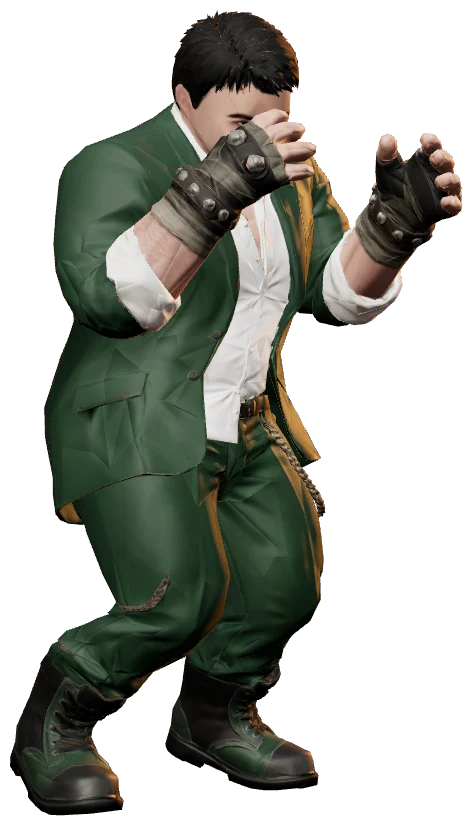
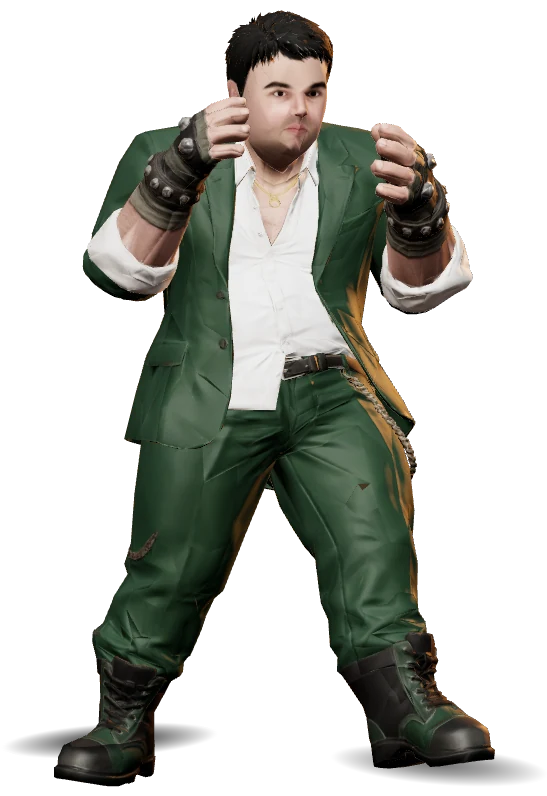
Guardia con i piedi piatti a terra, figure della scelta rivolte alla telecamera, arena Via Gemmellaro
Claude-Session: https://claude.ai/code/session_01Ca6fdwAAkC6S1YGdMpQrpP

diff --git a/picchiaduro-sito/sw.js b/picchiaduro-sito/sw.js
@@ -1,7 +1,7 @@
 // Service worker (generato da build3d.py): rende il gioco giocabile anche senza internet.
 // All'installazione salva i file principali; il resto (modelli dei lottatori e oggetti delle mosse finali) lo salva in sottofondo quando la pagina lo chiede.
 // Ogni nuova versione del gioco ha un'impronta diversa: la cache vecchia viene cancellata. Solo la partita online ha bisogno di internet.
-const VER='cafuddra-e594499d47',CORE=["./", "index.html", "manifest.webmanifest", "arene/agip.jpg", "arene/monumento.jpg", "arene/palacannizzaro.jpg", "arene/piazza.jpg", "arene/retro.jpg", "arene/rotonda.jpg", "arene/stesicoro.jpg", "font/knewave-LICENSE.txt", "font/knewave.woff2", "font/metal-mania.woff2", "font/titoli.json", "img/accoppalo.webp", "img/cafuddra.webp", "img/icona192.png", "img/icona512.png", "js/accoppalo.js", "js/animazione.js", "js/audio.js", "js/gioco.js", "js/lottatori.js", "js/mani.js", "js/menu.js", "js/offline.js", "js/peerjs.min.js", "js/regia.js", "js/selezione.js", "js/three-gltf.js", "js/titoli.js", "js/tocco.js", "lottatori/lottatori.json", "lottatori/alchimista/figura.webp", "lottatori/alchimista/ritratto.jpg", "lottatori/casual/figura.webp", "lottatori/casual/ritratto.jpg", "lottatori/chef/figura.webp", "lottatori/chef/ritratto.jpg", "lottatori/damiano/figura.webp", "lottatori/damiano/ritratto.jpg", "lottatori/disco/figura.webp", "lottatori/disco/ritratto.jpg", "lottatori/ember/figura.webp", "lottatori/ember/ritratto.jpg", "lottatori/giacca-meshy/figura.webp", "lottatori/giacca-meshy/ritratto.jpg", "lottatori/guardia/figura.webp", "lottatori/guardia/ritratto.jpg", "lottatori/lillo/figura.webp", "lottatori/lillo/ritratto.jpg", "lottatori/mario/figura.webp", "lottatori/mario/ritratto.jpg", "lottatori/massimo/figura.webp", "lottatori/massimo/ritratto.jpg", "lottatori/mastro/figura.webp", "lottatori/mastro/ritratto.jpg", "lottatori/mattia/figura.webp", "lottatori/mattia/ritratto.jpg", "lottatori/mattityahu/figura.webp", "lottatori/mattityahu/ritratto.jpg", "lottatori/medico/figura.webp", "lottatori/medico/ritratto.jpg", "lottatori/peppone/figura.webp", "lottatori/peppone/ritratto.jpg", "lottatori/perna/figura.webp", "lottatori/perna/ritratto.jpg", "lottatori/simba/figura.webp", "lottatori/simba/ritratto.jpg", "lottatori/simone/figura.webp", "lottatori/simone/ritratto.jpg", "lottatori/street/figura.webp", "lottatori/street/ritratto.jpg", "lottatori/tano/figura.webp", "lottatori/tano/ritratto.jpg", "mocap/clip.json", "suoni/ahi1.mp3", "suoni/ahi2.mp3", "suoni/ahi3.mp3", "suoni/ahi4.mp3", "suoni/ahi5.mp3", "suoni/aria1.mp3", "suoni/aria2.mp3", "suoni/aria3.mp3", "suoni/aria4.mp3", "suoni/ariona1.mp3", "suoni/ariona2.mp3", "suoni/boato.mp3", "suoni/botto.mp3", "suoni/calcio1.mp3", "suoni/calcio2.mp3", "suoni/calcio3.mp3", "suoni/campana.mp3", "suoni/cannone.mp3", "suoni/colpone.mp3", "suoni/colpone2.mp3", "suoni/coro.mp3", "suoni/crepitio.mp3", "suoni/esplo1.mp3", "suoni/esplo2.mp3", "suoni/fiammata.mp3", "suoni/forte1.mp3", "suoni/forte2.mp3", "suoni/forte3.mp3", "suoni/fuoco.mp3", "suoni/incudine.mp3", "suoni/lama.mp3", "suoni/lama2.mp3", "suoni/lamiera.mp3", "suoni/lattina.mp3", "suoni/max1.mp3", "suoni/metallo1.mp3", "suoni/metallo2.mp3", "suoni/morte1.mp3", "suoni/morte2.mp3", "suoni/ossa1.mp3", "suoni/ossa2.mp3", "suoni/parata1.mp3", "suoni/parata2.mp3", "suoni/passo1.mp3", "suoni/passo2.mp3", "suoni/portiera.mp3", "suoni/pugno1.mp3", "suoni/pugno2.mp3", "suoni/pugno3.mp3", "suoni/pugno4.mp3", "suoni/raschio.mp3", "suoni/risata.mp3", "suoni/rullante.mp3", "suoni/rutto.mp3", "suoni/sangue1.mp3", "suoni/sangue2.mp3", "suoni/scarica1.mp3", "suoni/scarica2.mp3", "suoni/schianto.mp3", "suoni/sforzo1.mp3", "suoni/sforzo2.mp3", "suoni/sorso.mp3", "suoni/sparo1.mp3", "suoni/sparo2.mp3", "suoni/stoffa1.mp3", "suoni/stoffa2.mp3", "suoni/telefono.mp3", "suoni/tonfo.mp3", "suoni/tuono.mp3", "suoni/ui_apri.mp3", "suoni/ui_muovi.mp3", "suoni/ui_no.mp3", "suoni/ui_ok.mp3", "suoni/urlo1.mp3", "suoni/urlo2.mp3", "suoni/urlolungo.mp3", "suoni/vetro1.mp3", "suoni/vetro2.mp3", "suoni/zap.mp3"],EXTRA=["lottatori/alchimista/modello.glb", "lottatori/casual/modello.glb", "lottatori/chef/modello.glb", "lottatori/damiano/modello.glb", "lottatori/disco/modello.glb", "lottatori/ember/modello.glb", "lottatori/giacca-meshy/modello.glb", "lottatori/guardia/modello.glb", "lottatori/lillo/modello.glb", "lottatori/mario/modello.glb", "lottatori/massimo/modello.glb", "lottatori/mastro/modello.glb", "lottatori/mattia/modello.glb", "lottatori/mattityahu/modello.glb", "lottatori/medico/modello.glb", "lottatori/peppone/modello.glb", "lottatori/perna/modello.glb", "lottatori/simba/modello.glb", "lottatori/simone/modello.glb", "lottatori/street/modello.glb", "lottatori/tano/modello.glb", "oggetti/birra.js", "oggetti/bottiglia.js", "oggetti/camper.js", "oggetti/cuore.js", "oggetti/intestino.js", "oggetti/microfono.js", "oggetti/muscoli.js", "oggetti/palla.js", "oggetti/scheletro.js", "oggetti/siringa.js", "oggetti/spina.js", "oggetti/statua.js", "oggetti/telefono.js", "oggetti/volante.js", "oggetti/waifu.js"];
+const VER='cafuddra-fe4b4b78f6',CORE=["./", "index.html", "manifest.webmanifest", "arene/agip.jpg", "arene/gemmellaro.jpg", "arene/monumento.jpg", "arene/palacannizzaro.jpg", "arene/piazza.jpg", "arene/retro.jpg", "arene/rotonda.jpg", "arene/stesicoro.jpg", "font/knewave-LICENSE.txt", "font/knewave.woff2", "font/metal-mania.woff2", "font/titoli.json", "img/accoppalo.webp", "img/cafuddra.webp", "img/icona192.png", "img/icona512.png", "js/accoppalo.js", "js/animazione.js", "js/audio.js", "js/gioco.js", "js/lottatori.js", "js/mani.js", "js/menu.js", "js/offline.js", "js/peerjs.min.js", "js/regia.js", "js/selezione.js", "js/three-gltf.js", "js/titoli.js", "js/tocco.js", "lottatori/lottatori.json", "lottatori/alchimista/figura.webp", "lottatori/alchimista/ritratto.jpg", "lottatori/casual/figura.webp", "lottatori/casual/ritratto.jpg", "lottatori/chef/figura.webp", "lottatori/chef/ritratto.jpg", "lottatori/damiano/figura.webp", "lottatori/damiano/ritratto.jpg", "lottatori/disco/figura.webp", "lottatori/disco/ritratto.jpg", "lottatori/ember/figura.webp", "lottatori/ember/ritratto.jpg", "lottatori/giacca-meshy/figura.webp", "lottatori/giacca-meshy/ritratto.jpg", "lottatori/guardia/figura.webp", "lottatori/guardia/ritratto.jpg", "lottatori/lillo/figura.webp", "lottatori/lillo/ritratto.jpg", "lottatori/mario/figura.webp", "lottatori/mario/ritratto.jpg", "lottatori/massimo/figura.webp", "lottatori/massimo/ritratto.jpg", "lottatori/mastro/figura.webp", "lottatori/mastro/ritratto.jpg", "lottatori/mattia/figura.webp", "lottatori/mattia/ritratto.jpg", "lottatori/mattityahu/figura.webp", "lottatori/mattityahu/ritratto.jpg", "lottatori/medico/figura.webp", "lottatori/medico/ritratto.jpg", "lottatori/peppone/figura.webp", "lottatori/peppone/ritratto.jpg", "lottatori/perna/figura.webp", "lottatori/perna/ritratto.jpg", "lottatori/simba/figura.webp", "lottatori/simba/ritratto.jpg", "lottatori/simone/figura.webp", "lottatori/simone/ritratto.jpg", "lottatori/street/figura.webp", "lottatori/street/ritratto.jpg", "lottatori/tano/figura.webp", "lottatori/tano/ritratto.jpg", "mocap/clip.json", "suoni/ahi1.mp3", "suoni/ahi2.mp3", "suoni/ahi3.mp3", "suoni/ahi4.mp3", "suoni/ahi5.mp3", "suoni/aria1.mp3", "suoni/aria2.mp3", "suoni/aria3.mp3", "suoni/aria4.mp3", "suoni/ariona1.mp3", "suoni/ariona2.mp3", "suoni/boato.mp3", "suoni/botto.mp3", "suoni/calcio1.mp3", "suoni/calcio2.mp3", "suoni/calcio3.mp3", "suoni/campana.mp3", "suoni/cannone.mp3", "suoni/colpone.mp3", "suoni/colpone2.mp3", "suoni/coro.mp3", "suoni/crepitio.mp3", "suoni/esplo1.mp3", "suoni/esplo2.mp3", "suoni/fiammata.mp3", "suoni/forte1.mp3", "suoni/forte2.mp3", "suoni/forte3.mp3", "suoni/fuoco.mp3", "suoni/incudine.mp3", "suoni/lama.mp3", "suoni/lama2.mp3", "suoni/lamiera.mp3", "suoni/lattina.mp3", "suoni/max1.mp3", "suoni/metallo1.mp3", "suoni/metallo2.mp3", "suoni/morte1.mp3", "suoni/morte2.mp3", "suoni/ossa1.mp3", "suoni/ossa2.mp3", "suoni/parata1.mp3", "suoni/parata2.mp3", "suoni/passo1.mp3", "suoni/passo2.mp3", "suoni/portiera.mp3", "suoni/pugno1.mp3", "suoni/pugno2.mp3", "suoni/pugno3.mp3", "suoni/pugno4.mp3", "suoni/raschio.mp3", "suoni/risata.mp3", "suoni/rullante.mp3", "suoni/rutto.mp3", "suoni/sangue1.mp3", "suoni/sangue2.mp3", "suoni/scarica1.mp3", "suoni/scarica2.mp3", "suoni/schianto.mp3", "suoni/sforzo1.mp3", "suoni/sforzo2.mp3", "suoni/sorso.mp3", "suoni/sparo1.mp3", "suoni/sparo2.mp3", "suoni/stoffa1.mp3", "suoni/stoffa2.mp3", "suoni/telefono.mp3", "suoni/tonfo.mp3", "suoni/tuono.mp3", "suoni/ui_apri.mp3", "suoni/ui_muovi.mp3", "suoni/ui_no.mp3", "suoni/ui_ok.mp3", "suoni/urlo1.mp3", "suoni/urlo2.mp3", "suoni/urlolungo.mp3", "suoni/vetro1.mp3", "suoni/vetro2.mp3", "suoni/zap.mp3"],EXTRA=["lottatori/alchimista/modello.glb", "lottatori/casual/modello.glb", "lottatori/chef/modello.glb", "lottatori/damiano/modello.glb", "lottatori/disco/modello.glb", "lottatori/ember/modello.glb", "lottatori/giacca-meshy/modello.glb", "lottatori/guardia/modello.glb", "lottatori/lillo/modello.glb", "lottatori/mario/modello.glb", "lottatori/massimo/modello.glb", "lottatori/mastro/modello.glb", "lottatori/mattia/modello.glb", "lottatori/mattityahu/modello.glb", "lottatori/medico/modello.glb", "lottatori/peppone/modello.glb", "lottatori/perna/modello.glb", "lottatori/simba/modello.glb", "lottatori/simone/modello.glb", "lottatori/street/modello.glb", "lottatori/tano/modello.glb", "oggetti/birra.js", "oggetti/bottiglia.js", "oggetti/camper.js", "oggetti/cuore.js", "oggetti/intestino.js", "oggetti/microfono.js", "oggetti/muscoli.js", "oggetti/palla.js", "oggetti/scheletro.js", "oggetti/siringa.js", "oggetti/spina.js", "oggetti/statua.js", "oggetti/telefono.js", "oggetti/volante.js", "oggetti/waifu.js"];
 self.addEventListener('install',e=>{e.waitUntil(caches.open(VER).then(c=>c.addAll(CORE)).then(()=>self.skipWaiting()))});
 self.addEventListener('activate',e=>{e.waitUntil(caches.keys().then(ks=>Promise.all(ks.filter(k=>k.startsWith('cafuddra-')&&k!==VER).map(k=>caches.delete(k)))).then(()=>self.clients.claim()))});
 self.addEventListener('fetch',e=>{const r=e.request;if(r.method!=='GET'||new URL(r.url).origin!==location.origin)return;

diff --git a/picchiaduro-sito/js/gioco.js b/picchiaduro-sito/js/gioco.js
@@ -434,7 +434,7 @@ function blood3D(){if(!BLD)return;let n=0,nb=0;for(const f of fx){if(f.blood&&!f
  let k=0;_q.identity();for(const d2 of decals){if(k>=500)break;_p.set(d2.x,.4+k*.004,d2.z);_s.set(d2.r*1.15,1,d2.r*.9);_m.compose(_p,_q,_s);DEC.setMatrixAt(k,_m);DEC.setColorAt(k,_c.set(d2.c==='#6d0a12'?'#4a050b':'#6a0610'));k++}DEC.count=k;DEC.instanceMatrix.needsUpdate=true;if(DEC.instanceColor)DEC.instanceColor.needsUpdate=true;
  for(let i=0;i<GUT.length;i++){const r=ropes[i],m=GUT[i];if(!r){m.visible=false;continue}const a=r.a(),b=r.b(),A=new THREE.Vector3(a[0],GROUND-a[1],a[2]==null?18+i*8:a[2]),B=new THREE.Vector3(b[0],GROUND-b[1],b[2]==null?14+i*6:b[2]),M=A.clone().lerp(B,.5);M.y-=60+i*28+Math.sin(tick*.12+i)*12;M.z+=30;const cur=new THREE.CatmullRomCurve3([A,A.clone().lerp(M,.5).add(new THREE.Vector3(0,-14,8)),M,B.clone().lerp(M,.5).add(new THREE.Vector3(0,-10,-6)),B]);m.geometry.dispose();m.geometry=new THREE.TubeGeometry(cur,28,6.5-i*1.2,8,false);m.visible=true}}
 function render(){camera();lightsSync();{const mx=p1&&p2?(p1.x+p2.x)/2:900,u=sun.userData;if(u.lx!==sun.position.x)u.dx=0;const d=Math.max(-3000,Math.min(3000,mx-900));sun.position.x+=d-(u.dx||0);u.dx=d;u.lx=sun.position.x;sun.target.position.x=900+d;sun.target.updateMatrixWorld();const sc=sun.shadow.camera,fa=state==='fatality',hw=fa?760:Math.max(430,Math.min(760,Math.abs(p1.x-p2.x)/2+300));if(Math.abs(sc.right-hw)>24){sc.left=-hw;sc.right=hw;sc.top=fa?760:Math.max(560,hw);sc.bottom=fa?-420:-Math.max(300,hw*.55);sc.updateProjectionMatrix()}}const sx=(Math.random()-.5)*shake,sy=(Math.random()-.5)*shake;poseI(p1);poseI(p2);if(typeof holdFrame==='function')holdFrame();
- const fat=state==='fatality';const sk=1-.75*(typeof stormK!=='undefined'?stormK:0),ctr=(curArena==='rotonda'||curArena==='agip'||curArena==='palacannizzaro'||curArena==='piazza'||curArena==='stesicoro'||curArena==='retro');sun.intensity+=((fat?(ctr?1.7:.55):2.5)*sk-sun.intensity)*.08;hemi.intensity+=((fat?(ctr?1.05:.34):(ctr?1.35:1.15))*sk-hemi.intensity)*.08;rim.intensity+=((fat?(ctr?4:5.5):3)-rim.intensity)*.08;
+ const fat=state==='fatality';const sk=1-.75*(typeof stormK!=='undefined'?stormK:0),ctr=(curArena==='rotonda'||curArena==='agip'||curArena==='palacannizzaro'||curArena==='piazza'||curArena==='stesicoro'||curArena==='retro'||curArena==='gemmellaro');sun.intensity+=((fat?(ctr?1.7:.55):2.5)*sk-sun.intensity)*.08;hemi.intensity+=((fat?(ctr?1.05:.34):(ctr?1.35:1.15))*sk-hemi.intensity)*.08;rim.intensity+=((fat?(ctr?4:5.5):3)-rim.intensity)*.08;
  if(killer&&killer.headOn&&heldPiece){const q=worldPt(killer,layout(killer.p).nW),P2=heldPiece.it.P;P2.position.set(q[0],GROUND-q[1]+14,40);P2.rotation.set(0,0,.2*killer.f);heldSpine.rotation.z=Math.sin(tick*.2)*.14}else if(heldPiece&&killer&&!killer.headOn)heldPiece.it.P.visible=false;else if(killer&&killer.headOn){const q=worldPt(killer,layout(killer.p).nW);heldHead.visible=true;heldHead.material.map=victim.rig.model.headTex;heldHead.position.set(q[0],GROUND-q[1]+38,50);heldHead.scale.x=victim.f;heldHead.rotation.z=.2*killer.f;heldHead.material.color.copy(victim.rig.head.material.color);heldSpine.rotation.z=Math.sin(tick*.2)*.14}else if(heldHead)heldHead.visible=false;
  blood3D();fire3Draw();contactDraw();
  const z=cam.z,fov=rad(cam3.fov),d=(H/2)/(z*Math.tan(fov/2)),yc=(GROUND-H/2+(cam.y||0))/z;const cine=fat&&cam.shot&&typeof cineCam==='function';{const fl=ARENAS[curArena]&&ARENAS[curArena].userData.floor;if(fl){const pc=fat?Math.abs(cam.pitch||0):0;fl.material.opacity=Math.max(0,Math.min(1,(pc-.08)/.1));fl.visible=fl.material.opacity>.01}}if(cine)cineCam(sx,sy);else{if(typeof cineOff==='function')cineOff();cam3.position.set(cam.x-sx/z,yc+sy/z+0,d);cam3.rotation.set(0,0,0)}renderer.render(scene,cam3);if(BLOB.count){renderer.setRenderTarget(bloodRT);renderer.setClearColor(0x000000,0);renderer.clear();renderer.render(blobScene,cam3);renderer.setRenderTarget(null);renderer.autoClear=false;renderer.render(compScene,ortho);renderer.autoClear=true}if(typeof postRun==='function')postRun(fat);if(typeof titRender==='function')titRender();
@@ -521,7 +521,7 @@ async function watchFat(kind){if(typeof oggPrep==='function')await oggPrep(kind=
  const noFat=e=>e&&e.id&&!e.bloccato&&!(e.accoppalo&&FK.includes(e.accoppalo)),cur0=MATCH&&MATCH.ids&&rosterEntry(MATCH.ids[0]);const own=kind==='heart'?(noFat(cur0)?cur0:ROSTER.find(noFat)):ROSTER.find(e=>e&&e.id&&!e.bloccato&&e.accoppalo===kind);if(!own){await ensureMatch();playFat(kind);return}const cur=MATCH&&MATCH.ids;if(!p1||!cur||cur[0]!==own.id){const other=(cur&&cur.find(i=>i!==own.id))||(available().find(e=>e.id!==own.id)||own).id;if(mode==='online')mode='cpu';await startMatch([own.id,other],selArena)}else closeSel();if(typeof fatPrep==='function'){const kk=kind==='pers'?(persFat(p1)||'heart'):kind;await fatPrep(p1,p2,kk,1)}playFat(kind)}
 function playFat(kind){if(net)return;if(kind==='pers')kind=persFat(p1);reset();demo=null;p1.x=720;p2.x=1080;p1.f=1;p2.f=-1;p1.w=3;p2.hp=0;p2.show=0;p2.ko=true;p2.m=null;clock=99*60;say('',0);fatal(p1,p2,kind)}
 function setArena(a){if(!ARENAS[a])a=ARENAS.monument?'monument':'temple';curArena=a;selArena=a;for(const k in ARENAS)ARENAS[k].visible=k===a;try{localStorage.setItem('arena',a)}catch(e){}
- if(a==='piazza'||a==='stesicoro'){scene.fog=null;sun.color.set(0xdfe6f4);sun.position.set(300,1200,900);sun.target.position.set(900,100,0);hemi.color.set(0xb8c4dc);hemi.groundColor.set(0x4c4a4e);rim.color.set(0xffd9a0);rim.position.set(500,600,-1300)}
+ if(a==='piazza'||a==='stesicoro'||a==='gemmellaro'){scene.fog=null;sun.color.set(0xdfe6f4);sun.position.set(300,1200,900);sun.target.position.set(900,100,0);hemi.color.set(0xb8c4dc);hemi.groundColor.set(0x4c4a4e);rim.color.set(0xffd9a0);rim.position.set(500,600,-1300)}
  else if(a==='palacannizzaro'){scene.fog=null;sun.color.set(0xfff1dc);sun.position.set(900,1300,900);sun.target.position.set(900,100,0);hemi.color.set(0xe8ecf6);hemi.groundColor.set(0x7a5232);rim.color.set(0xfff4e0);rim.position.set(700,700,-1300)}
  else if(a==='rotonda'||a==='agip'||a==='retro'){scene.fog=null;sun.color.set(0xffb878);sun.position.set(380,820,-700);sun.target.position.set(900,100,0);hemi.color.set(0xc9a3c8);hemi.groundColor.set(0x6a4022);rim.color.set(0xffa040);rim.position.set(700,450,-1300)}
  else if(a==='monument'){scene.fog=null;sun.color.set(0xffd2a0);sun.position.set(-300,950,700);sun.target.position.set(900,100,0);hemi.color.set(0xbcd2ff);hemi.groundColor.set(0x6a4528);rim.color.set(0xffa050);rim.position.set(-600,500,-1200)}else{scene.fog=new THREE.Fog(0xd77a44,1500,3200);sun.color.set(0xffe2bd);sun.position.set(620,1050,900);sun.target.position.set(900,100,0);hemi.color.set(0xffd9b0);hemi.groundColor.set(0x3a241a);rim.color.set(0xff8a3a);rim.position.set(900,420,-1400)}
@@ -529,7 +529,7 @@ function setArena(a){if(!ARENAS[a])a=ARENAS.monument?'monument':'temple';curAren
 function markArena(a){document.querySelectorAll('#arenas button').forEach(b=>b.setAttribute('aria-pressed',b.dataset.a===a))}
 function setMode(x){if(net)return;mode=x;openSel()}
 // ---------- incontro: carica solo i 2 lottatori scelti e l'arena ----------
-const ARENE=[{id:'monument',nome:'Redentore',img:'arene/monumento.jpg',musica:null},{id:'rotonda',nome:'Spremi agrumi',img:'arene/rotonda.jpg',row:.86,Hp:1780,sheen:0xff9a40,sheenO:.1,musica:null},{id:'agip',nome:'AGIP',img:'arene/agip.jpg',row:.8,Hp:1780,sheen:0xffa050,sheenO:.1,musica:null},{id:'palacannizzaro',nome:'PalaCannizzaro',img:'arene/palacannizzaro.jpg',row:.86,Hp:1780,sheen:0xfff0d8,sheenO:.07,musica:null},{id:'stesicoro',nome:'Piazza Stesicoro',img:'arene/stesicoro.jpg',row:.97,Hp:1780,sheen:0xbcd0ff,sheenO:.05,musica:null},{id:'piazza',nome:'Piazza',img:'arene/piazza.jpg',row:.88,Hp:1780,sheen:0xbcd0ff,sheenO:.05,musica:null},{id:'retro',nome:'Retrò',img:'arene/retro.jpg',row:.9,Hp:1780,sheen:0xffb070,sheenO:.06,musica:null}];// il Tempio (procedurale) resta solo per i test, non si sceglie più
+const ARENE=[{id:'monument',nome:'Redentore',img:'arene/monumento.jpg',musica:null},{id:'rotonda',nome:'Spremi agrumi',img:'arene/rotonda.jpg',row:.86,Hp:1780,sheen:0xff9a40,sheenO:.1,musica:null},{id:'agip',nome:'AGIP',img:'arene/agip.jpg',row:.8,Hp:1780,sheen:0xffa050,sheenO:.1,musica:null},{id:'palacannizzaro',nome:'PalaCannizzaro',img:'arene/palacannizzaro.jpg',row:.86,Hp:1780,sheen:0xfff0d8,sheenO:.07,musica:null},{id:'stesicoro',nome:'Piazza Stesicoro',img:'arene/stesicoro.jpg',row:.97,Hp:1780,sheen:0xbcd0ff,sheenO:.05,musica:null},{id:'piazza',nome:'Piazza',img:'arene/piazza.jpg',row:.88,Hp:1780,sheen:0xbcd0ff,sheenO:.05,musica:null},{id:'retro',nome:'Retrò',img:'arene/retro.jpg',row:.9,Hp:1780,sheen:0xffb070,sheenO:.06,musica:null},{id:'gemmellaro',nome:'Via Gemmellaro',img:'arene/gemmellaro.jpg',row:.9,Hp:1780,sheen:0xffc080,sheenO:.07,musica:null}];// il Tempio (procedurale) resta solo per i test, non si sceglie più
 let selArena='monument',loading=false,music=null;
 async function loadArena(a){const A=ARENE.find(x=>x.id===a);if(!A||ARENAS[a])return;if(A.img){const t=await new THREE.TextureLoader().loadAsync(A.img);t.colorSpace=THREE.SRGBColorSpace;t.anisotropy=8;if(a==='monument'){TEX.arena1=t;buildMonument(t)}else buildMonument(t,a,A.row,A.Hp,A.sheen,A.sheenO)}}
 function playMusic(a){const A=ARENE.find(x=>x.id===a),u=A&&A.musica;if(music&&music.dataset.u===u)return;if(music){music.pause();music=null}if(!u||window.__test)return;music=new Audio(u);music.dataset.u=u;music.loop=true;music.volume=.45;music.play().catch(()=>{})}

diff --git a/picchiaduro-sito/js/animazione.js b/picchiaduro-sito/js/animazione.js
@@ -121,6 +121,8 @@ function animLayer(c,R,M,PROC,px,py,pz){
  {const o=c===p1?p2:p1;if(o){const thr=live&&!mv&&!c.block&&o.m&&MOVECLIP[o.m]&&!o.hitDone&&Math.abs(o.x-c.x)<380&&c.m!=='hurt'?1:0;lerpA(A,'thr',thr,.28,dt);lerpA(A,'lk',live&&!mv?Math.max(-.45,Math.min(.3,(o.y-c.y)/520)):0,.15,dt);
   if(A.thr>.001){const w=A.thr*A.gw;RX.setFromEuler(qe.set(-.13*w,0,0));for(const k of['spine','neck','head','uR','lR','uL','lL'])FIN[k].premultiply(RX);RX.setFromEuler(qe.set(.1*w,0,0));FIN.neck.premultiply(RX);FIN.head.premultiply(RX);fHip.z-=.03*w;for(const sd of'RL')FIN['l'+sd].premultiply(RX.setFromEuler(qe.set(-.16*w,0,0)))}
   if(Math.abs(A.lk)>.002){RX.setFromEuler(qe.set(A.lk*.55,0,0));FIN.neck.premultiply(RX);FIN.head.premultiply(RX);FIN.head.premultiply(RX)}}}
+ // figura della schermata di scelta: testa alzata verso la telecamera (in guardia il mento è basso)
+ if(c.lookUp){RX.setFromEuler(qe.set(-c.lookUp,c.lookYaw||0,0));FIN.neck.premultiply(RX);FIN.head.premultiply(RX);FIN.head.premultiply(RX)}
  // 2) meccanica del pugno: il bacino e il tronco ruotano dietro il braccio che colpisce, il peso va avanti; molla poco smorzata = follow-through
  {let th=A.pw*((eR*(lead==='R'?.34:.6))-(eL*(lead==='L'?.34:.6)));const mc=mv&&MOVECLIP[mv];if(punch&&mc.hit&&mc.side&&c.t<mc.hit*.55)th-=mc.side*(MIR?-1:1)*.2*Math.sin(Math.PI*c.t/(mc.hit*.55));
   th+=A.kw*(kR-kL)*.3;if(A.tw==null){A.tw=0;A.twv=0}for(let s=0;s<dt;s++){A.twv+=(th-A.tw)*.22-A.twv*.5;A.tw+=A.twv}const t=A.tw,m=A.pw*Math.max(eR,eL),kk=A.kw*Math.max(kR,kL);
@@ -182,17 +184,23 @@ function animLayer(c,R,M,PROC,px,py,pz){
  // dopo un colpo nessun piede deve restare sospeso: se entrambi i piedi sono sopra il pavimento il bacino scende finché il più basso appoggia
  if(live&&c.y===0&&!c.ko&&M.J&&R.B.fR&&R.B.fL&&c.m!=='flykick'&&!(c.m==='jump')){R.G.updateMatrixWorld(true);const sy=R.G.scale.y,ly=sd=>(R.B['f'+sd].getWorldPosition(anV).y-R.G.position.y)/sy-M.J['f'+sd].y,lo=Math.min(ly('R'),ly('L'));if(lo>.004){fHip.y-=Math.min(lo,.18);R.setHips(fHip.x,fHip.y,fHip.z)}}
  if(live&&c.y===0&&!c.crouch&&!c.ko&&!c.fpose&&(isG||src==='block')&&M.J&&R.B.fR&&R.B.fL)kneeAlign(R,FIN,src==='block'?.9:.85*A.sw);
- if(M.footFix!=null)footIK(c,R,M,A,FIN,dt,live&&c.y===0&&!c.ko&&c.m!=='spartan'&&c.m!=='spazzata');
+ // in guardia, in parata, colpiti e all'atterraggio entrambi i piedi poggiano piatti a terra (la clip di guardia tiene il piede avanti sollevato)
+ const plant=live&&c.y===0&&!c.ko&&!c.crouch&&!c.fpose&&!mv&&(src==='guard'||src==='block'||src.startsWith('land'));
+ // se la gamba avanti non arriva a terra (anca troppo alta per la distanza del piede) il bacino scende quanto basta
+ if(plant&&M.J&&R.B.tR&&R.B.sR&&R.B.fR){R.G.updateMatrixWorld(true);const sy=R.G.scale.y;let drop=0;for(const sd of'RL'){const H=R.B['t'+sd].getWorldPosition(new THREE.Vector3()),K=R.B['s'+sd].getWorldPosition(new THREE.Vector3()),F=R.B['f'+sd].getWorldPosition(new THREE.Vector3()),L=(H.distanceTo(K)+K.distanceTo(F))*.97,gy=R.G.position.y+(M.J['f'+sd].y+.02)*sy,dh=Math.hypot(F.x-H.x,F.z-H.z);if(dh<L){const hy=gy+Math.sqrt(L*L-dh*dh);if(H.y>hy)drop=Math.max(drop,H.y-hy)}}
+  A.pdrop=(A.pdrop||0)+(Math.min(drop/sy,.22)-(A.pdrop||0))*.3;if(A.pdrop>.001){fHip.y-=A.pdrop;R.setHips(fHip.x,fHip.y,fHip.z)}}else A.pdrop=0;
+ if(M.footFix!=null)footIK(c,R,M,A,FIN,dt,live&&c.y===0&&!c.ko&&c.m!=='spartan'&&c.m!=='spazzata',plant);
  // clip del morto: il punto più basso del corpo resta appoggiato al pavimento (né sospeso né sotto)
  if(fcl&&fcl.c==='morto'){R.G.updateMatrixWorld(true);const sy=R.G.scale.y,J=M.J||{};let lo=1e9;for(const k of['hips','spine','neck','head','uR','uL','lR','lL','wR','wL','tR','tL','sR','sL','fR','fL']){const b=R.B[k];if(!b)continue;const mg=k[0]==='f'?((J['f'+k[1]]&&J['f'+k[1]].y+1)||.08):k==='head'?.1:k==='hips'||k==='spine'?.11:.05,y=(b.getWorldPosition(anV).y-(c.fy||0))/sy-mg;if(y<lo)lo=y}if(lo<1e8&&Math.abs(lo)>.003){R.G.position.y-=lo*sy;R.G.updateMatrixWorld(true)}}
  if(M.footFix==null&&src==='guard'&&c.y===0&&!c.rx&&!c.crouch&&A.sw>.98&&A.hx.lengthSq()<1e-5&&M.J&&R.B.fR&&R.B.fL){R.G.updateMatrixWorld(true);const ly=b=>(b.getWorldPosition(anV).y-R.G.position.y)/R.G.scale.y;M.footFix=Math.max(-.3,Math.min(.3,Math.min(M.J.fR.y,M.J.fL.y)-Math.min(ly(R.B.fR),ly(R.B.fL))+.02))}}
 // ---------- piedi piantati: IK a due ossa sulle gambe (solo grafica). Il piede in appoggio resta fermo nel mondo mentre bacino e busto si muovono:
 // non scivola in guardia, camminando o in parata. Quando si stacca da terra torna alla clip in pochi fotogrammi.
 const ikH=new THREE.Vector3(),ikK=new THREE.Vector3(),ikF=new THREE.Vector3(),ikT=new THREE.Vector3(),ikD=new THREE.Vector3(),ikP=new THREE.Vector3(),ikN=new THREE.Vector3(),ikA=new THREE.Vector3(),ikB=new THREE.Vector3(),ikQ=new THREE.Quaternion(),ikG=new THREE.Quaternion(),ikGi=new THREE.Quaternion();
-function footIK(c,R,M,A,FIN,dt,on){const B=R.B;if(!M.J||!B.tR||!B.sR||!B.fR||!B.tL||!B.sL||!B.fL)return;const I=A.ik||(A.ik={R:{off:new THREE.Vector3(),lock:null},L:{off:new THREE.Vector3(),lock:null},f:c.f});
+const kaF=new THREE.Quaternion(),kaV=new THREE.Vector3(),kaO=new THREE.Vector3(),_Y=new THREE.Vector3(0,1,0);
+function footIK(c,R,M,A,FIN,dt,on,plant){const B=R.B;if(!M.J||!B.tR||!B.sR||!B.fR||!B.tL||!B.sL||!B.fL)return;const I=A.ik||(A.ik={R:{off:new THREE.Vector3(),lock:null},L:{off:new THREE.Vector3(),lock:null},f:c.f});
  if(I.f!==c.f){I.f=c.f;for(const sd of'RL'){I[sd].lock=null;I[sd].off.set(0,0,0)}}
  R.G.updateMatrixWorld(true);R.G.getWorldQuaternion(ikG);ikGi.copy(ikG).invert();const sy=R.G.scale.y,MAX=.42*sy,lim=on&&!c.crouch&&!c.ko&&!c.fpose&&(!c.m||c.m==='block'||c.m==='hurt')?KA.kmax*Math.PI/180:0;let any=false;
- for(const sd of'RL'){const S=I[sd];B['t'+sd].getWorldPosition(ikH);B['s'+sd].getWorldPosition(ikK);B['f'+sd].getWorldPosition(ikF);const gy=R.G.position.y+(M.J['f'+sd].y+.02)*sy,pl=on&&ikF.y<gy+.045*sy;
+ for(const sd of'RL'){const S=I[sd];B['t'+sd].getWorldPosition(ikH);B['s'+sd].getWorldPosition(ikK);B['f'+sd].getWorldPosition(ikF);const gy=R.G.position.y+(M.J['f'+sd].y+.02)*sy,pl=on&&(plant||ikF.y<gy+.045*sy);
   if(dt>0){if(pl){if(!S.lock)S.lock=new THREE.Vector3(ikF.x+S.off.x,gy,ikF.z+S.off.z);S.off.set(S.lock.x-ikF.x,S.off.y+(gy-ikF.y-S.off.y)*(1-Math.pow(.5,dt)),S.lock.z-ikF.z);const h=Math.hypot(S.off.x,S.off.z);if(h>MAX){const k=MAX/h;S.off.x*=k;S.off.z*=k;S.lock.x=ikF.x+S.off.x;S.lock.z=ikF.z+S.off.z}}
    else{S.lock=null;S.off.multiplyScalar(Math.pow(.76,dt))}}
   if(S.off.lengthSq()<1e-6)continue;
@@ -204,11 +212,12 @@ function footIK(c,R,M,A,FIN,dt,on){const B=R.B;if(!M.J||!B.tR||!B.sR||!B.fR||!B.
   const x=(a*a-b*b+d*d)/(2*d),h=Math.sqrt(Math.max(0,a*a-x*x));ikN.copy(ikH).addScaledVector(ikD,x).addScaledVector(ikP,h);ikT.copy(ikH).addScaledVector(ikD,d);
   ikA.copy(ikK).sub(ikH).normalize();ikB.copy(ikN).sub(ikH).normalize();ikQ.setFromUnitVectors(ikA,ikB).premultiply(ikGi).multiply(ikG);FIN['t'+sd].premultiply(ikQ);
   ikA.copy(ikF).sub(ikK).normalize();ikB.copy(ikT).sub(ikN).normalize();ikQ.setFromUnitVectors(ikA,ikB).premultiply(ikGi).multiply(ikG);FIN['s'+sd].premultiply(ikQ);any=true}
+  if(plant){const w=A.plw=(A.plw||0)+(1-(A.plw||0))*.2;for(const sd of'RL'){const q=FIN['f'+sd];kaV.set(0,0,1).applyQuaternion(q);const yw=Math.atan2(kaV.x,kaV.z);kaF.setFromAxisAngle(_Y,yw);q.slerp(kaF,w)}any=true}else A.plw=0;
  if(any)applyPose(R,FIN)}
 // due ossa (coscia, stinco): porta la caviglia sul punto p (mondo), il ginocchio resta dalla parte dove già piega
 // ginocchia verso la punta del piede: la clip di guardia le porta in dentro (gamba "a X"). Si ruota la coscia attorno all'asse anca-caviglia:
 // il piede resta dov'è, cambia solo da che parte guarda il ginocchio (verso la punta del piede, un po' in fuori).
-const kaF=new THREE.Quaternion(),kaV=new THREE.Vector3(),kaO=new THREE.Vector3();
+
 function kneeAlign(R,FIN,k){if(k<=.001)return;const B=R.B;R.G.updateMatrixWorld(true);R.G.getWorldQuaternion(ikG);ikGi.copy(ikG).invert();const hc=B.hips.getWorldPosition(kaO).clone();let any=false;
  for(const sd of'RL'){B['t'+sd].getWorldPosition(ikH);B['s'+sd].getWorldPosition(ikK);B['f'+sd].getWorldPosition(ikF);ikD.copy(ikF).sub(ikH);const d=ikD.length();if(d<1e-4)continue;ikD.multiplyScalar(1/d);
   ikA.copy(ikK).sub(ikH);ikA.addScaledVector(ikD,-ikA.dot(ikD));if(ikA.lengthSq()<1e-8)continue;ikA.normalize();
